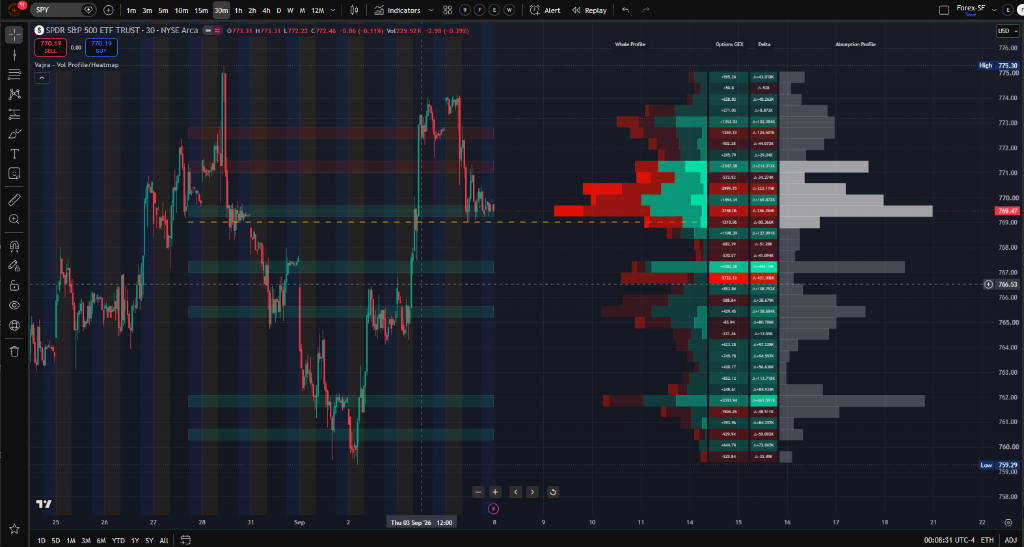
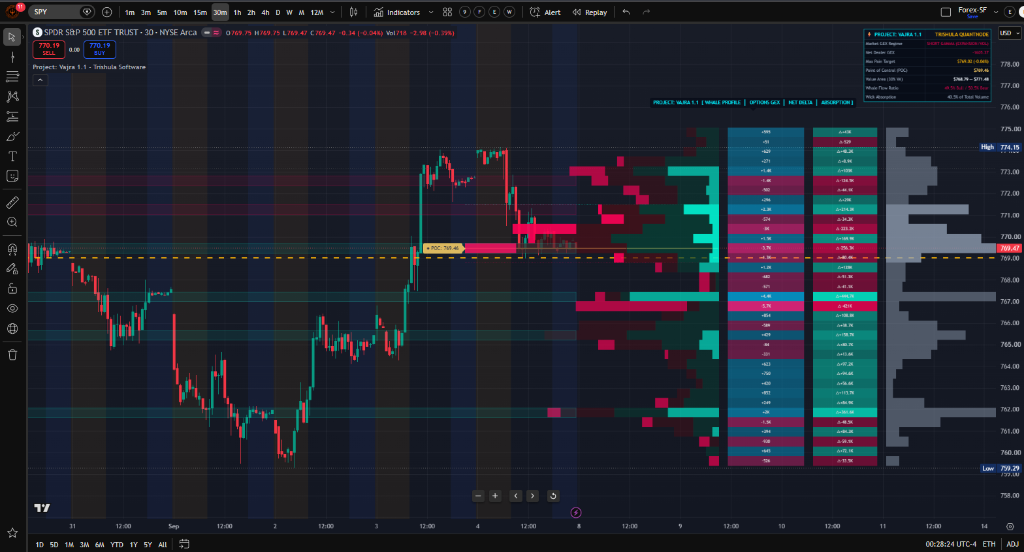
Update Project: Vajra 1.1 live execution chart and telemetry badge specs

diff --git a/index.html b/index.html
@@ -3069,12 +3069,13 @@
                 <!-- Telemetry Breakdown Badges -->
                 <div class="flex flex-wrap items-center justify-between gap-3 text-xs font-mono pt-2 border-t border-slate-800/60">
                   <div class="flex flex-wrap items-center gap-4 text-[11px]">
-                    <span class="flex items-center gap-1.5"><span class="w-2.5 h-2.5 rounded-full bg-emerald-400"></span><strong class="text-slate-200">Whale Profile:</strong> Bullish (<code class="text-emerald-300">#00ffbb</code>) &amp; Bearish (<code class="text-rose-400">#ff1100</code>) Stacked Bins</span>
-                    <span class="flex items-center gap-1.5"><span class="w-2.5 h-2.5 rounded-full bg-cyan-400"></span><strong class="text-slate-200">Options GEX Heatmap:</strong> Black-Scholes Modeled Gamma Walls with Dynamic Opacity</span>
-                    <span class="flex items-center gap-1.5"><span class="w-2.5 h-2.5 rounded-full bg-amber-400"></span><strong class="text-slate-200">Net Delta Profile:</strong> Strike-level Directional Hedging Pressure (<code class="text-amber-300">&Delta;&plusmn;</code>)</span>
-                    <span class="flex items-center gap-1.5"><span class="w-2.5 h-2.5 rounded-full bg-slate-400"></span><strong class="text-slate-200">Wick Absorption Profile:</strong> Passive Limit Order Absorption Histogram</span>
-                    <span class="flex items-center gap-1.5"><span class="w-2.5 h-2.5 rounded-full bg-emerald-500/50"></span><strong class="text-slate-200">S/R Absorption Levels:</strong> Projected Multi-Bar Peak Liquidity Corridors</span>
-                    <span class="flex items-center gap-1.5"><span class="w-2.5 h-2.5 rounded-full bg-yellow-400"></span><strong class="text-slate-200">Options Max Pain Pin:</strong> Minimal Payout Strike Line (<code class="text-yellow-300">#ffbd15</code>)</span>
+                    <span class="flex items-center gap-1.5"><span class="w-2.5 h-2.5 rounded-full bg-cyan-400"></span><strong class="text-slate-200">Telemetry HUD:</strong> Real-time Gamma Regime, Net GEX &amp; Max Pain Pin Target</span>
+                    <span class="flex items-center gap-1.5"><span class="w-2.5 h-2.5 rounded-full bg-[#00F5D4]"></span><strong class="text-slate-200">Whale Profile:</strong> Bullish (<code class="text-cyan-300">#00F5D4</code>) &amp; Bearish (<code class="text-rose-400">#FF0054</code>) Stacked Bins</span>
+                    <span class="flex items-center gap-1.5"><span class="w-2.5 h-2.5 rounded-full bg-[#00BBF9]"></span><strong class="text-slate-200">Options GEX Heatmap:</strong> Black-Scholes Modeled Gamma Walls (<code class="text-sky-300">Cyan</code> Pin / <code class="text-pink-400">Magenta</code> Vol)</span>
+                    <span class="flex items-center gap-1.5"><span class="w-2.5 h-2.5 rounded-full bg-emerald-400"></span><strong class="text-slate-200">Net Delta Profile:</strong> Strike-level Directional Hedging Pressure (<code class="text-emerald-300">&Delta;&plusmn;</code>)</span>
+                    <span class="flex items-center gap-1.5"><span class="w-2.5 h-2.5 rounded-full bg-slate-400"></span><strong class="text-slate-200">Wick Absorption:</strong> Passive Limit Order Absorption Histogram</span>
+                    <span class="flex items-center gap-1.5"><span class="w-2.5 h-2.5 rounded-full bg-amber-400"></span><strong class="text-slate-200">Point of Control:</strong> Amber Line (<code class="text-amber-300">#FFD166</code>)</span>
+                    <span class="flex items-center gap-1.5"><span class="w-2.5 h-2.5 rounded-full bg-yellow-400"></span><strong class="text-slate-200">Options Max Pain:</strong> Minimal Payout Strike Line (<code class="text-yellow-300">#FFB703</code>)</span>
                   </div>
                   <div class="text-slate-500">
                     TradingView Pine Script v6 Engine // Project: Vajra 1.1
